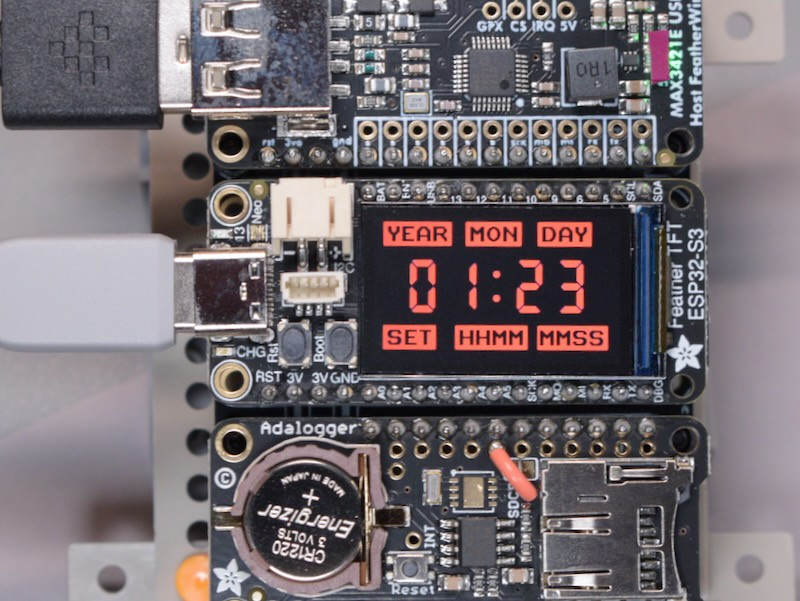
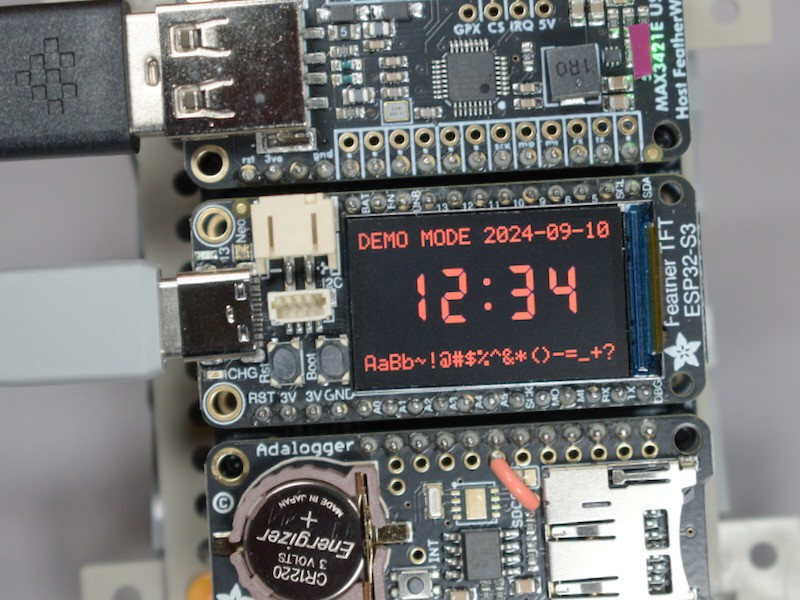
update project photo

diff --git a/README.md b/README.md
@@ -8,8 +8,6 @@ This clock's display uses TileGrid sprites that I made in Krita. The code shows
 how to set time a date using a state machine with USB gamepad button inputs.
 The display in this photo is real, not a simulation.
 
-**NOTE: THIS PHOTO IS OUT OF DATE**
-
 ![photo of assembled hardware showing sprite demo on Feather TFT display](feather-tft-clock.jpeg)
 
 
